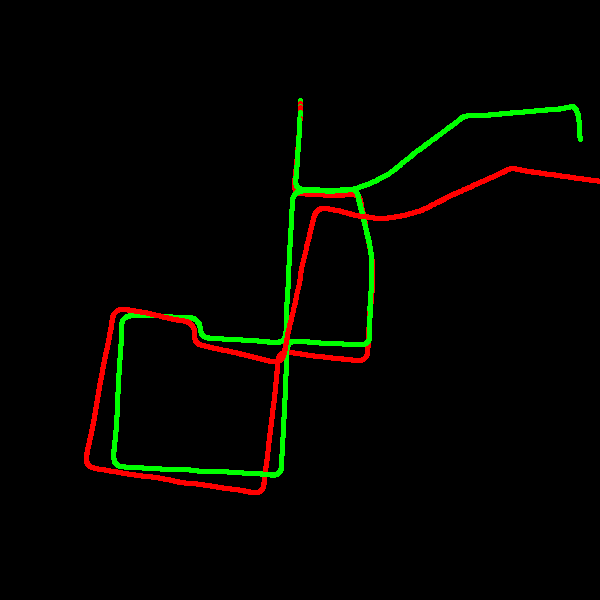
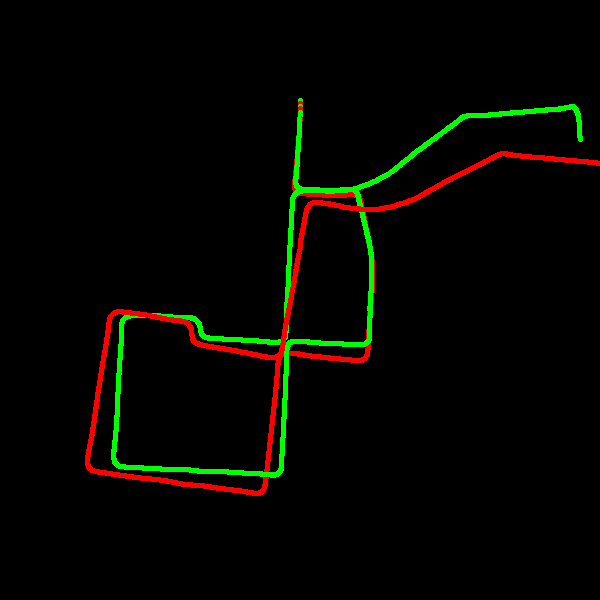
左右目匹配时也通过RANSAC滤一下

diff --git a/src/visual_odometry.cpp b/src/visual_odometry.cpp
@@ -421,6 +421,7 @@ namespace myslam
         }
 
         cv::calcOpticalFlowPyrLK(frame->img_left_, frame->img_right_, leftPts, rightPts, status, err);
+        cv::findFundamentalMat(leftPts, rightPts, cv::FM_RANSAC, 3.0, 0.99, status);
 
         for (size_t i = 0; i < rightPts.size(); i++) {
             if (status[i]) {
